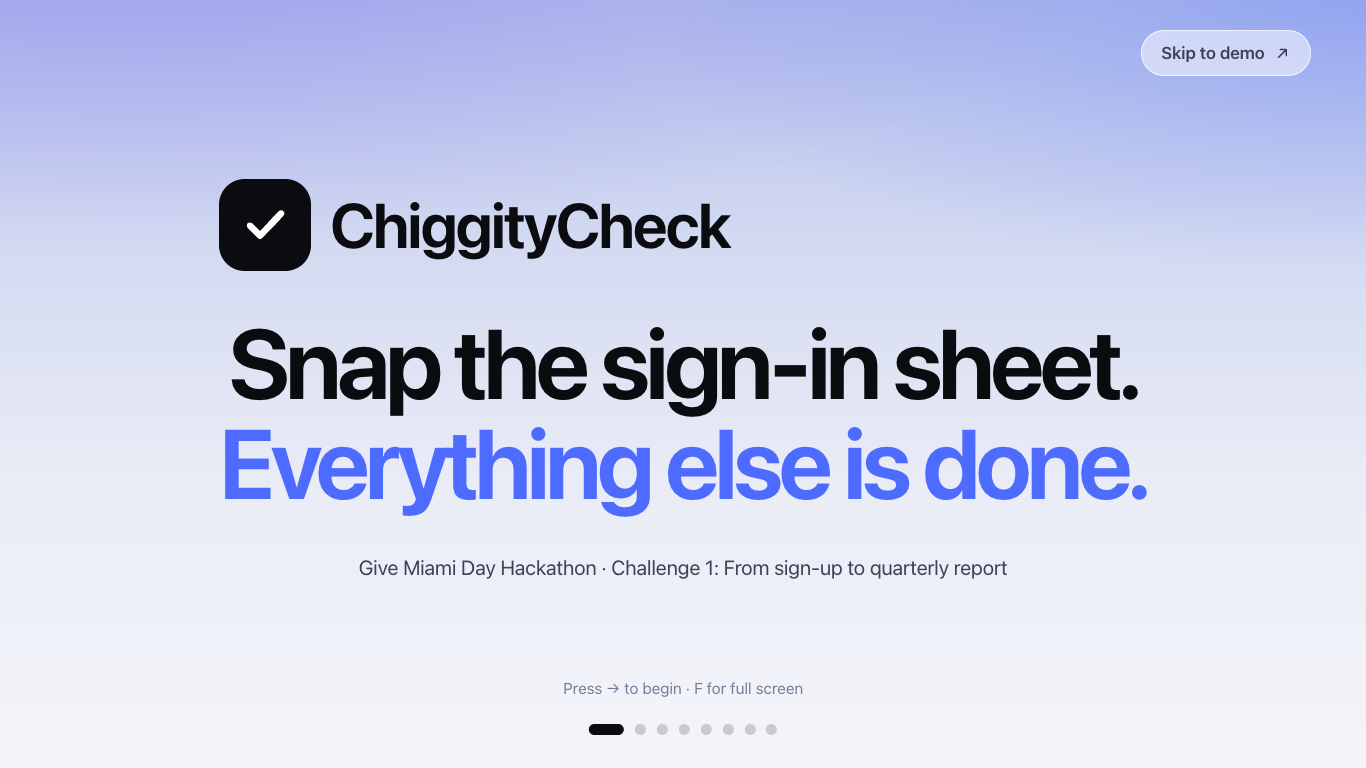
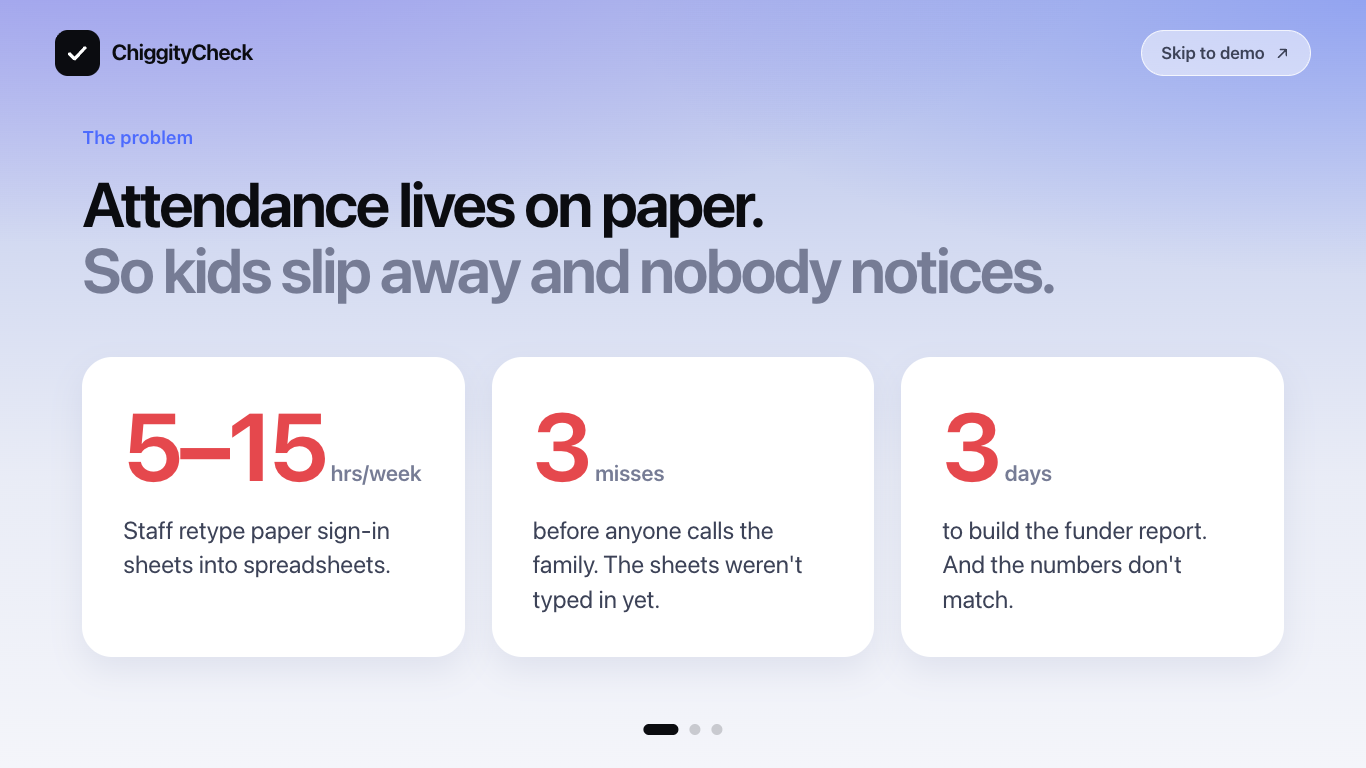
v0.5.1: stage explainer cut to 3 plain slides: problem, what it does, how it fixes it

diff --git a/src/pages/Stage.tsx b/src/pages/Stage.tsx
@@ -1,6 +1,6 @@
 import { useCallback, useEffect, useState, type ReactNode } from 'react'
 import { Link, useNavigate } from 'react-router'
-import { Icon, type IconName } from '../components/ui'
+import { Icon } from '../components/ui'
 
 /* Stage explainer: landscape slides for the presenter. → / Space / PageDown / click = next, ← / PageUp = back, F = full screen, D = demo. */
 
@@ -19,138 +19,50 @@ function Pain({ n, unit, text }: { n: string; unit: string; text: string }) {
   )
 }
 
-function Step({ icon, title, sub, broken, img }: { icon: IconName; title: string; sub: string; broken?: boolean; img?: string }) {
-  return (
-    <div className={`stg-step${broken ? ' broken' : ''}`}>
-      {img ? <img src={img} alt="Paper sign-in sheet on a clipboard" className="stg-step-img" /> : <span className="stg-step-ic"><Icon name={icon} /></span>}
-      <div className="stg-step-t">{title}</div>
-      <div className="stg-step-s">{sub}</div>
-    </div>
-  )
-}
-const Arrow = ({ broken }: { broken?: boolean }) => <span className={`stg-arrow${broken ? ' broken' : ''}`}>{broken ? '×' : '→'}</span>
-
 const SLIDES: { key: string; render: (go: (to: string) => void) => ReactNode }[] = [
-  {
-    key: 'cover',
-    render: () => (
-      <div className="stg-center">
-        <div className="stg-brand"><Mark size={1.6} /><span>ChiggityCheck</span></div>
-        <h1 className="stg-h0">Snap the sign-in sheet.<br /><span className="blue">Everything else is done.</span></h1>
-        <p className="stg-kicker">Give Miami Day Hackathon · Challenge 1: From sign-up to quarterly report</p>
-      </div>
-    ),
-  },
-  {
-    key: 'marisol',
-    render: () => (
-      <div className="stg-wrap">
-        <p className="stg-eyebrow">Meet the person we built this for</p>
-        <h2 className="stg-h1">Marisol runs every program at<br />Tidepath Family Alliance.</h2>
-        <div className="stg-stats">
-          <div><b>900</b><span>kids a year</span></div>
-          <div><b>150</b><span>families</span></div>
-          <div><b>3</b><span>languages: English, Spanish, Kreyòl</span></div>
-          <div><b>40</b><span>volunteer mentors</span></div>
-        </div>
-        <p className="stg-lede">Mentoring, family counseling and safety workshops in Little Havana and West Little River. Funded by about a dozen grants, each asking for a quarterly outcome report.</p>
-        <p className="stg-note">Tidepath is a composite of 14 real South Florida nonprofits.</p>
-      </div>
-    ),
-  },
   {
     key: 'problem',
     render: () => (
       <div className="stg-wrap">
         <p className="stg-eyebrow">The problem</p>
-        <h2 className="stg-h1">Every list is typed by hand.<br /><span className="muted">And the numbers still don't match.</span></h2>
-        <div className="stg-pains">
-          <Pain n="5–15" unit="hrs" text="every week typing paper sheets and form sign-ups into spreadsheets" />
-          <Pain n="3" unit="lists" text="the same mother appears on, spelled three different ways" />
-          <Pain n="3" unit="misses" text="before anyone called home, because the sheets weren't typed in yet" />
-          <Pain n="3" unit="days" text="to build each quarterly report, and the numbers never match the first time" />
+        <h2 className="stg-h1">Attendance lives on paper.<br /><span className="muted">So kids slip away and nobody notices.</span></h2>
+        <div className="stg-pains three">
+          <Pain n="5–15" unit="hrs/week" text="Staff retype paper sign-in sheets into spreadsheets." />
+          <Pain n="3" unit="misses" text="before anyone calls the family. The sheets weren't typed in yet." />
+          <Pain n="3" unit="days" text="to build the funder report. And the numbers don't match." />
         </div>
       </div>
     ),
   },
   {
-    key: 'quote',
+    key: 'what',
     render: () => (
-      <div className="stg-center">
-        <p className="stg-quote">“I just want to type each thing once, know which kids need a call this week, and have the quarterly report ready without losing days to it.”</p>
-        <p className="stg-by">Marisol, program manager</p>
-      </div>
-    ),
-  },
-  {
-    key: 'why',
-    render: () => (
-      <div className="stg-wrap">
-        <p className="stg-eyebrow">Why it keeps happening</p>
-        <h2 className="stg-h1">The truth starts on paper.<br /><span className="muted">Everything after it is retyping.</span></h2>
-        <div className="stg-flow">
-          <Step icon="sheet" title="Paper sheet" sub="Mentors check kids in on a clipboard" img="/sheets/demo-cg-2026-09-23.jpg" />
-          <Arrow broken />
-          <Step icon="pen" title="Typed by hand" sub="Days later, when there's time" broken />
-          <Arrow broken />
-          <Step icon="copy" title="Four lists" sub="Sign-ups, attendance, mentors, hours. None of them talk" broken />
-          <Arrow broken />
-          <Step icon="doc" title="Report by hand" sub="Funders get numbers they can't check" broken />
+      <div className="stg-what">
+        <img src="/sheets/demo-cg-2026-09-23.jpg" alt="Paper sign-in sheet on a clipboard" className="stg-what-img" />
+        <div>
+          <p className="stg-eyebrow">What ChiggityCheck does</p>
+          <h2 className="stg-h1">Take a photo of the sign-in sheet.<br /><span className="blue">It does the rest.</span></h2>
+          <ul className="stg-list">
+            <li><Icon name="check" /><span><b>Reads every name</b>, even messy handwriting, and saves attendance.</span></li>
+            <li><Icon name="phone" /><span><b>Tells you who to call</b> this week, with the message written in the family's language.</span></li>
+            <li><Icon name="doc" /><span><b>Keeps the funder report finished.</b> Every number links to the photo.</span></li>
+          </ul>
         </div>
       </div>
     ),
   },
   {
-    key: 'idea',
-    render: () => (
-      <div className="stg-wrap">
-        <p className="stg-eyebrow">Our idea</p>
-        <h2 className="stg-h1">Don't add another form.<br /><span className="blue">The paper sheet is the input.</span></h2>
-        <div className="stg-flow">
-          <Step icon="cam" title="1 · Snap" sub="One photo of the sheet. AI reads every handwritten name" img="/sheets/demo-cg-2026-09-23.jpg" />
-          <Arrow />
-          <Step icon="merge" title="2 · Match" sub="Each spelling matched to the right kid, with a probability. Learned forever" />
-          <Arrow />
-          <Step icon="phone" title="3 · Call" sub="Who needs a call this week, message written in the family's language" />
-          <Arrow />
-          <Step icon="doc" title="4 · Prove" sub="Report always done. Every number opens the photo it came from" />
-        </div>
-      </div>
-    ),
-  },
-  {
-    key: 'solved',
-    render: () => (
-      <div className="stg-wrap">
-        <p className="stg-eyebrow">What solved looks like</p>
-        <h2 className="stg-h1">Type it once. Call the right family.<br /><span className="blue">The report is already done.</span></h2>
-        <div className="stg-ba">
-          <div className="before">
-            <div className="k">Before</div>
-            <div className="row"><span>Per session</span><b>40 min typing</b></div>
-            <div className="row"><span>Same mom</span><b>3 records</b></div>
-            <div className="row"><span>Kid flagged after</span><b>3rd miss</b></div>
-            <div className="row"><span>Quarterly report</span><b>3 days</b></div>
-          </div>
-          <div className="after">
-            <div className="k">With ChiggityCheck</div>
-            <div className="row"><span>Per session</span><b>1 photo</b></div>
-            <div className="row"><span>Same mom</span><b>1 record</b></div>
-            <div className="row"><span>Kid flagged after</span><b>2nd miss</b></div>
-            <div className="row"><span>Quarterly report</span><b>Already done</b></div>
-          </div>
-        </div>
-      </div>
-    ),
-  },
-  {
-    key: 'demo',
+    key: 'how',
     render: (go) => (
       <div className="stg-demo">
         <div>
-          <p className="stg-eyebrow">Live demo</p>
-          <h2 className="stg-h1 sm">Wednesday, September 23.<br /><span className="muted">Citrus Grove Middle School,<br />4:40 pm.</span></h2>
-          <p className="stg-lede">A mentor just handed Marisol today's sheet. Let's snap it.</p>
+          <p className="stg-eyebrow">How that fixes it</p>
+          <h2 className="stg-h1 sm">One photo replaces<br />all the retyping.</h2>
+          <ul className="stg-list fix">
+            <li><Icon name="check" /><span><b>No more retyping.</b> One photo per session instead of 40 minutes of typing.</span></li>
+            <li><Icon name="phone" /><span><b>No kid slips through.</b> Flagged at the 2nd miss, with the call message ready.</span></li>
+            <li><Icon name="doc" /><span><b>No report crunch.</b> The report fills itself as sheets come in.</span></li>
+          </ul>
           <button className="stg-go" onClick={(e) => { e.stopPropagation(); go('/today') }}>
             <Icon name="cam" /> Start the demo
           </button>
@@ -158,7 +70,7 @@ const SLIDES: { key: string; render: (go: (to: string) => void) => ReactNode }[]
         <div className="stg-qr" onClick={(e) => e.stopPropagation()}>
           <img src="/qr-signup.svg" alt="QR code for the public sign-up form at check.micahberkley.com/signup" />
           <b>Try it from your seat</b>
-          <span>Sign up a family. Watch it land in Marisol's records.</span>
+          <span>Sign up a family and watch it land in the records.</span>
           <code>check.micahberkley.com/signup</code>
         </div>
       </div>
@@ -196,7 +108,7 @@ export default function Stage() {
   return (
     <div className="stg" onClick={(e) => { if (e.clientX < window.innerWidth * 0.25) prev(); else next() }}>
       <div className="stg-top" onClick={(e) => e.stopPropagation()}>
-        <div className="stg-brand sm" style={{ visibility: i === 0 ? 'hidden' : 'visible' }}><Mark size={0.8} /><span>ChiggityCheck</span></div>
+        <div className="stg-brand sm" ><Mark size={0.8} /><span>ChiggityCheck</span></div>
         <Link to="/today" className="stg-skip">Skip to demo <Icon name="arrow" /></Link>
       </div>
       {SLIDES.map((s, idx) => (
@@ -207,7 +119,7 @@ export default function Stage() {
       <div className="stg-dots" onClick={(e) => e.stopPropagation()}>
         {SLIDES.map((s, idx) => <button key={s.key} aria-label={`Slide ${idx + 1}`} className={idx === i ? 'on' : ''} onClick={() => setI(idx)} />)}
       </div>
-      {i === 0 && <div className="stg-hint">Press → to begin · F for full screen</div>}
+      
       {/* Portrait / phone: the same story as one scrolling page */}
       <div className="stg-mobile">
         {SLIDES.map((s) => <section key={s.key} className="stg-mslide">{s.render(go)}</section>)}

diff --git a/src/styles.css b/src/styles.css
@@ -860,3 +860,20 @@ body{background-repeat:no-repeat;background-size:100% 100vh}
 .stg-h1.sm{font-size:calc(var(--u)*4)}
 @media (max-width:860px),(orientation:portrait) and (max-width:1100px){.stg-h1.sm{font-size:28px}.stg-top .stg-brand.sm{visibility:visible!important}}
 .stg-ba{margin-top:calc(var(--u)*3)}.stg-ba>div{padding:calc(var(--u)*2.4) calc(var(--u)*3)}.stg-ba .row{padding:calc(var(--u)*.9) 0}.stg-ba .row b{font-size:calc(var(--u)*2.3)}
+.stg-pains.three{grid-template-columns:repeat(3,minmax(0,1fr));gap:calc(var(--u)*2)}
+.stg-pains.three .stg-pain{padding:calc(var(--u)*3)}
+.stg-pains.three .stg-pain-n{font-size:calc(var(--u)*7)}
+.stg-pains.three .stg-pain-t{font-size:calc(var(--u)*1.8)}
+.stg-what{display:grid;grid-template-columns:minmax(0,.8fr) minmax(0,1.4fr);gap:calc(var(--u)*5);align-items:center;width:100%;max-width:calc(var(--u)*90)}
+.stg-what-img{width:100%;border-radius:calc(var(--u)*2.4);box-shadow:0 24px 50px rgba(30,40,90,.22);transform:rotate(-2deg)}
+.stg-list{list-style:none;padding:0;margin:calc(var(--u)*3.2) 0 0;display:flex;flex-direction:column;gap:calc(var(--u)*1.8)}
+.stg-list li{display:flex;gap:calc(var(--u)*1.4);align-items:flex-start;font-size:calc(var(--u)*1.9);line-height:1.4;color:var(--ink-2)}
+.stg-list li b{color:var(--ink);font-weight:600}
+.stg-list li svg{flex:none;width:calc(var(--u)*3);height:calc(var(--u)*3);padding:calc(var(--u)*.6);border-radius:calc(var(--u)*.9);background:var(--blue-wash);color:var(--blue);stroke:currentColor;fill:none;stroke-width:2;stroke-linecap:round;stroke-linejoin:round}
+@media (max-width:860px),(orientation:portrait) and (max-width:1100px){
+  .stg-pains.three{grid-template-columns:1fr}.stg-pains.three .stg-pain-n{font-size:44px}.stg-pains.three .stg-pain-t{font-size:16px}
+  .stg-what{grid-template-columns:1fr;gap:24px}.stg-what-img{max-width:260px;margin:0 auto;display:block}
+  .stg-list li{font-size:16px;gap:12px}.stg-list li svg{width:30px;height:30px;padding:6px}
+}
+.stg-list.fix{margin-top:calc(var(--u)*2.4);gap:calc(var(--u)*1.4)}.stg-list.fix li{font-size:calc(var(--u)*1.7)}
+@media (max-width:860px),(orientation:portrait) and (max-width:1100px){.stg-list.fix li{font-size:16px}}
